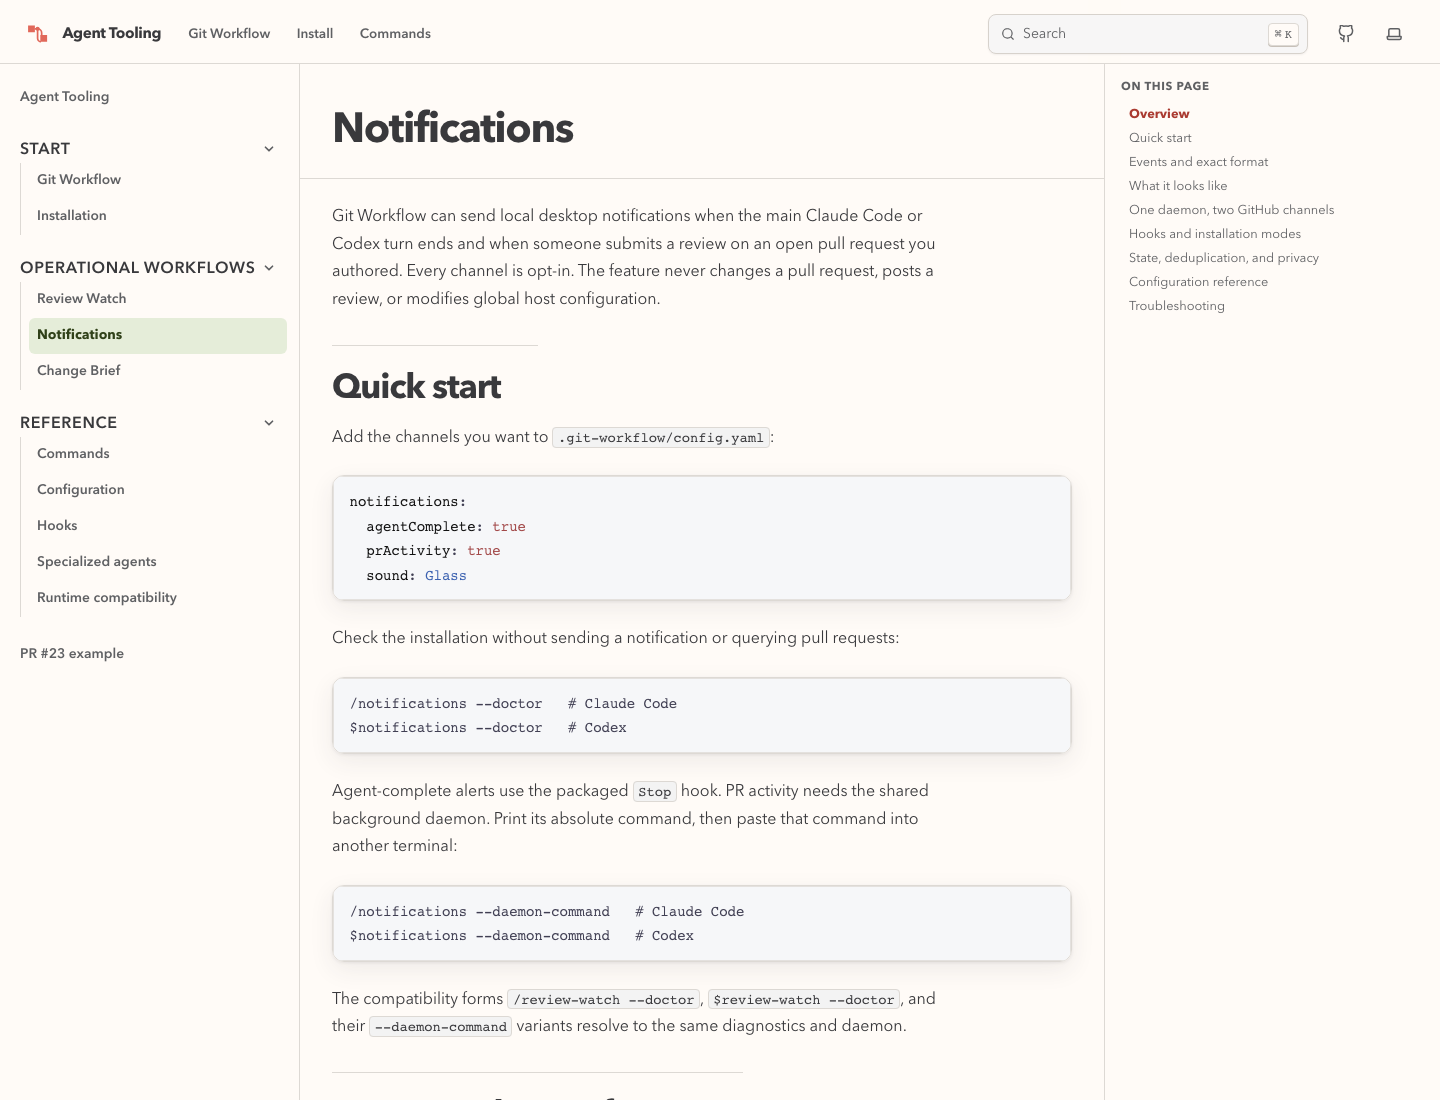
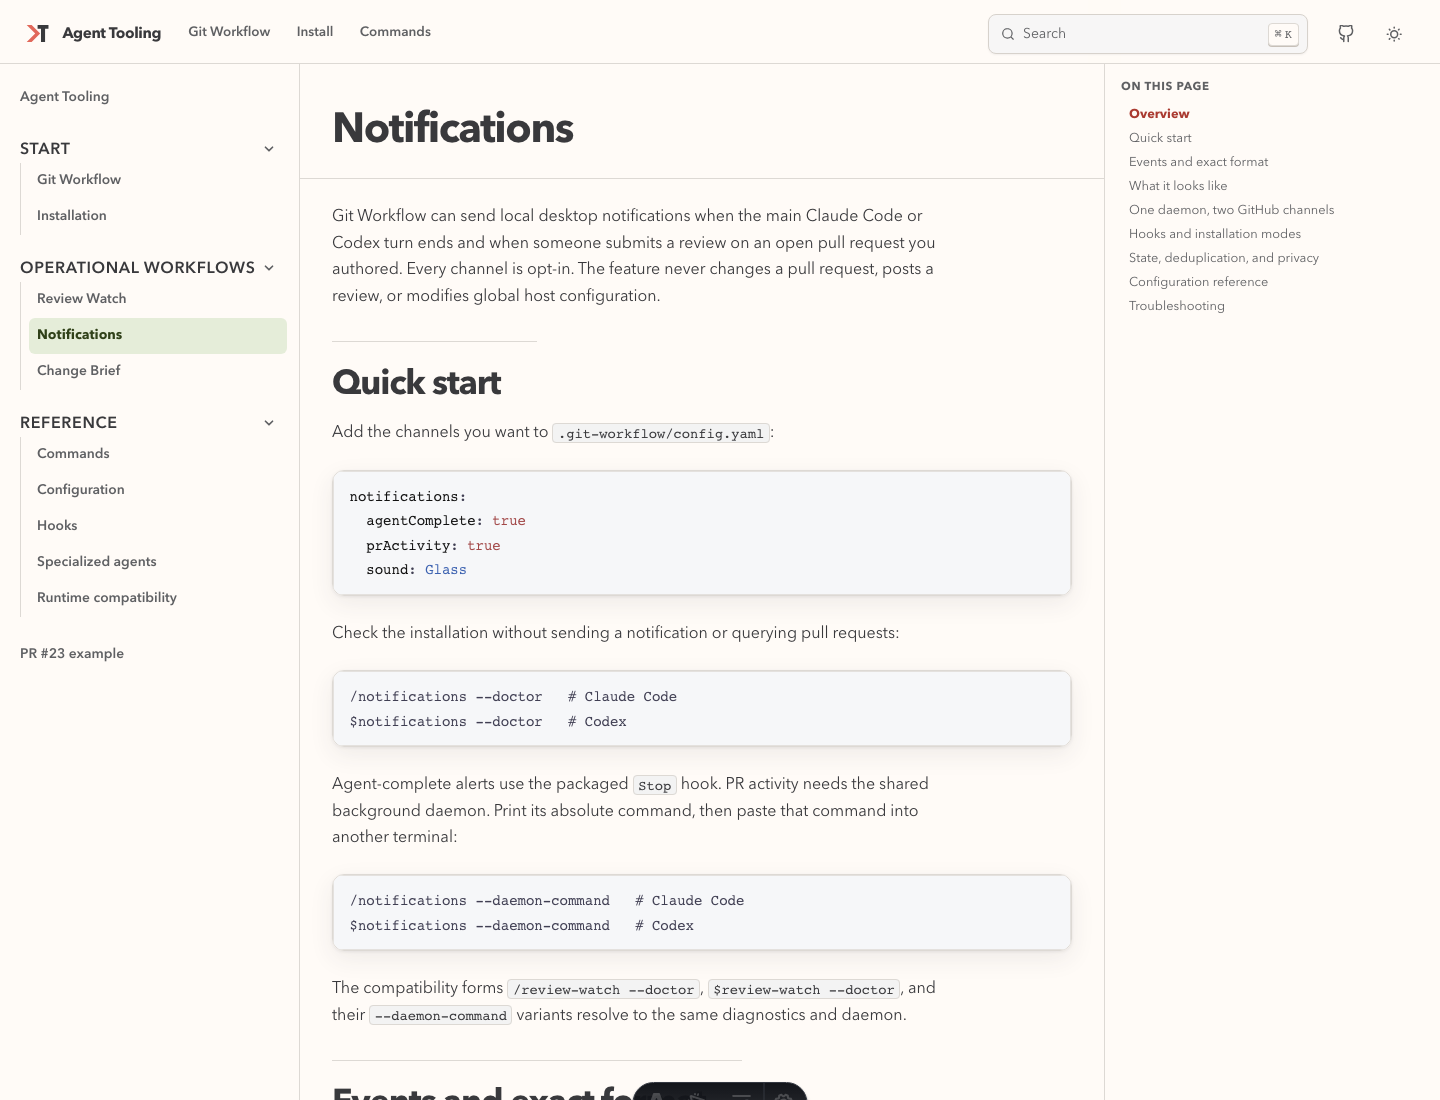
[Feature] Redesign Agent Tooling brand mark

diff --git a/site/DESIGN_SYSTEM.md b/site/DESIGN_SYSTEM.md
@@ -10,6 +10,15 @@ The site is an editorial engineering field guide, not a generic component showca
 - **Shape:** Restrained radii and borders define structure. Light mode may use subtle elevation; dark mode uses surface contrast instead of shadows.
 - **Motion:** Feedback uses 80–140ms, state changes use 240ms, layout transitions use 420ms, and composed entrances use 600ms. Animate only opacity and transforms. Reduced motion removes spatial transitions.
 
+## Brand mark
+
+The Agent Tooling mark is a command splice: a coral prompt chevron feeds into a foreground `T`. The two forms represent an agent invoking a tool while remaining readable as a compact monogram at favicon and header sizes.
+
+- Use the two-color mark on site surfaces: semantic `--primary` for the prompt and `--foreground` for the `T`.
+- Use the blue-black tile, coral prompt, and light `T` for standalone app-icon and favicon contexts.
+- Keep the clear geometry intact. Do not add strokes, gradients, shadows, or workflow nodes inside the mark.
+- Pair it with the Agent Tooling wordmark when space permits; the symbol may stand alone below 24px or where the brand name is already explicit.
+
 ## Token contract
 
 `src/styles/tokens.css` owns primitive and semantic values. Components consume semantic names such as `--action`, `--border`, `--text-lead`, or `--duration-state`; they never introduce raw colors or CSS durations.
